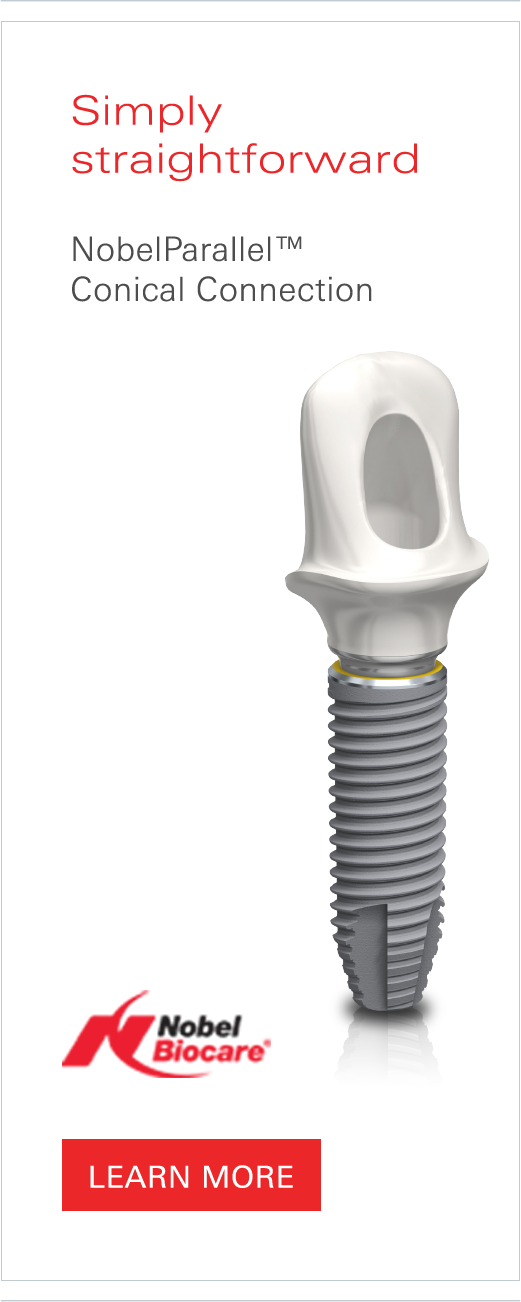
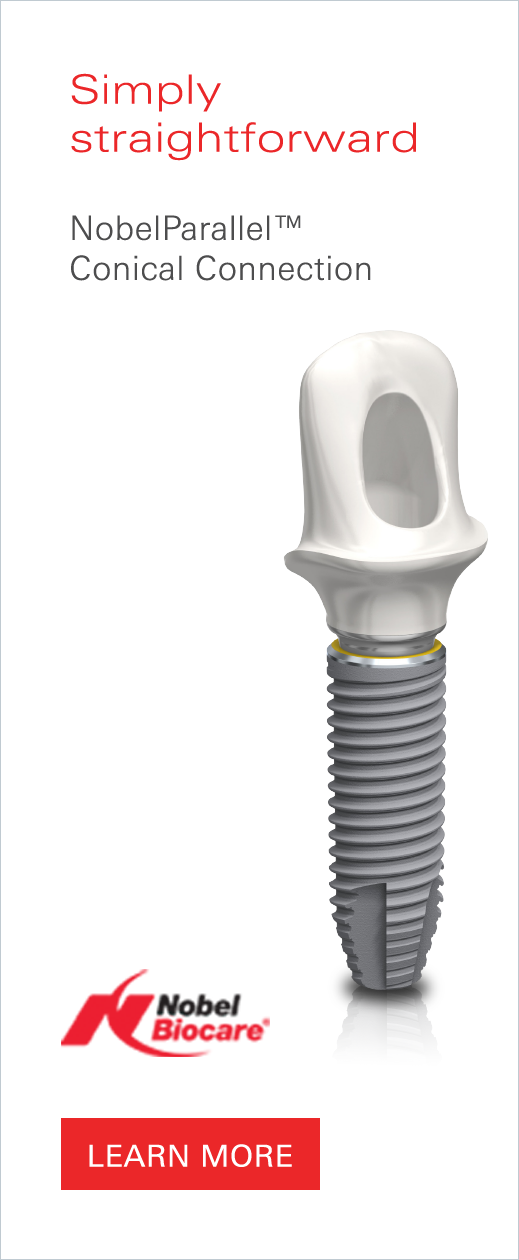
implmented filters and UI fixes

diff --git a/src/app/pages/sponsors/components/sponsor-category-content/sponsor-category-content-component.ts b/src/app/pages/sponsors/components/sponsor-category-content/sponsor-category-content-component.ts
@@ -1,10 +1,12 @@
-import { Component, OnInit, OnDestroy } from '@angular/core';
+import { Component, OnInit, OnDestroy, Input, OnChanges, SimpleChanges } from '@angular/core';
 import { Observable, Subscription, from, Subject } from 'rxjs';
 import { CMSResponse, CMSPageContent, CMSContentTypeModel, CMSContentParams } from 'src/app/cms/models';
-import { Store } from '@ngxs/store';
+import { Store, ofActionDispatched, Actions } from '@ngxs/store';
 import * as actions from '../../../../cms/actions'
 import { skip, takeLast, take, takeUntil } from 'rxjs/operators';
 import { ActivatedRoute, Router } from '@angular/router';
+import { NgxSpinnerService } from 'ngx-spinner';
+import { FetchLatestTopics, FetchTrendingTopics } from '../../../../cms/actions';
 
 @Component({
   selector: 'dsod-sponsor-category-content',
@@ -12,6 +14,8 @@ import { ActivatedRoute, Router } from '@angular/router';
   styleUrls: ['./sponsor-category-content-component.scss']
 })
 export class DSODSponsorCategoryContentComponent implements OnInit , OnDestroy {
+  @Input() categoryId:string;
+  isLoading:boolean;
   sponsorName:any
   sponsor: CMSContentTypeModel;
   featuredTopics$: Observable<CMSResponse<CMSPageContent[]>>;
@@ -22,7 +26,8 @@ export class DSODSponsorCategoryContentComponent implements OnInit , OnDestroy {
   };
   _unsubscribeAll: Subject<any> = new Subject();
   storeSub: Subscription;
-  constructor(private store:Store, private route:ActivatedRoute) {
+  constructor(private store: Store, private route: ActivatedRoute, private actions$: Actions,
+    private spinnerService: NgxSpinnerService,) {
   }
 
   ngOnInit(){
@@ -33,9 +38,17 @@ export class DSODSponsorCategoryContentComponent implements OnInit , OnDestroy {
     this.featuredTopics$ = this.store.select(state => state.cms.featuredTopics);
     this.latestTopics$ = this.store.select(state => state.cms.latestTopics);
     this.trendingTopics$ = this.store.select(state => state.cms.trendingTopics);
+    this.actions$.pipe(ofActionDispatched(actions.FetchFeaturedTopics, FetchLatestTopics, FetchTrendingTopics)).subscribe(data => {
+      this.spinnerService.show();
+      this.isLoading = true;
+    });
+    this.actions$.pipe(ofActionDispatched(actions.FetchFeaturedTopicsSuccess, actions.FetchLatestTopicsSuccess, actions.FetchTrendingTopicsSuccess)).subscribe(data => {
+      this.spinnerService.hide();
+      this.isLoading = false;
+    });
   }
 
-  getSponsorContent(){
+  getSponsorContent(categoryId?:string){
     this.storeSub = this.store.select(state => state.cms.sponsorsList)
       .pipe(takeUntil(this._unsubscribeAll)).subscribe(item => {
         if(item.length){
@@ -45,6 +58,7 @@ export class DSODSponsorCategoryContentComponent implements OnInit , OnDestroy {
               ...this.params,
               isFeatured: true,
               sponsorId: this.sponsor[0].id,
+              categoryId:this.categoryId?this.categoryId:null,
               limit: 6
             })
           );
@@ -53,6 +67,7 @@ export class DSODSponsorCategoryContentComponent implements OnInit , OnDestroy {
               ...this.params,
               isFeatured: false,
               sponsorId: this.sponsor[0].id,
+              categoryId: this.categoryId ? this.categoryId : null,
               limit: 6
             })
           );
@@ -61,6 +76,7 @@ export class DSODSponsorCategoryContentComponent implements OnInit , OnDestroy {
               ...this.params,
               limit: 4,
               sponsorId: this.sponsor[0].id,
+              categoryId: this.categoryId ? this.categoryId : null,
               contentTypeId: "29"
             })
           );
@@ -68,6 +84,8 @@ export class DSODSponsorCategoryContentComponent implements OnInit , OnDestroy {
      
       });
   }
+
+
   ngOnDestroy(){
     this.storeSub.unsubscribe();
     this._unsubscribeAll.next();

diff --git a/src/app/pages/sponsors/components/sponsor-categories-tabs/sponsor-categories-tab.component.ts b/src/app/pages/sponsors/components/sponsor-categories-tabs/sponsor-categories-tab.component.ts
@@ -3,7 +3,7 @@ import { TabDirective } from 'ngx-bootstrap';
 import { Store } from '@ngxs/store';
 import { ActivatedRoute } from '@angular/router';
 import { Observable, Subject, Subscription } from 'rxjs';
-import * as actions from '../../../../cms/actions'
+import * as actions from '../../../../cms/actions';
 import { takeUntil } from 'rxjs/operators';
 
 @Component({
@@ -12,41 +12,48 @@ import { takeUntil } from 'rxjs/operators';
   styleUrls: ['./sponsor-categories-tab.component.scss']
 })
 export class DSODSponsorCategoriesTabsCompnonent implements OnInit, OnDestroy {
-  sponsorName:any;
-  filterTabs$:Observable<any>;
+  sponsorName: any;
+  selectedCategoryId: string;
+  filterTabs$: Observable<any>;
   _unsubscribeAll: Subject<any> = new Subject();
-  extractedId:string;
+  extractedId: string;
   storeSub: Subscription;
-  constructor( private store:Store, private route:ActivatedRoute) {
+  constructor(private store: Store, private route: ActivatedRoute) {
     this.store.dispatch(new actions.FetchSponsorsList());
-    this.route.params.subscribe(param=>{
+    this.route.params.subscribe(param => {
       this.sponsorName = param.name;
-      this.fetchSponsorCategories()
-    })
+      this.fetchSponsorCategories();
+    });
   }
 
-  ngOnInit(){
-   
-    this.filterTabs$ = this.store.select(state => state.cms.sponsoredCategories)
+  ngOnInit() {
+    this.filterTabs$ = this.store.select(
+      state => state.cms.sponsoredCategories
+    );
   }
 
-  fetchSponsorCategories(){
-    this.storeSub= this.store.select(state => state.cms.sponsorsList).pipe(takeUntil(this._unsubscribeAll)).subscribe(items => {
-    if (items.length) {
-      const sponsor = items.filter(item => item.name == this.sponsorName);
-      this.extractedId = sponsor[0].id;
-      this.store.dispatch(new actions.FetchSponsoredCategories(sponsor[0].id))
-    }
-    })
+  fetchSponsorCategories() {
+    this.storeSub = this.store
+      .select(state => state.cms.sponsorsList)
+      .pipe(takeUntil(this._unsubscribeAll))
+      .subscribe(items => {
+        if (items.length) {
+          const sponsor = items.filter(item => item.name == this.sponsorName);
+          this.extractedId = sponsor[0].id;
+          this.store.dispatch(
+            new actions.FetchSponsoredCategories(sponsor[0].id)
+          );
+        }
+      });
   }
 
-  onChangeFilter(data:TabDirective){
+  onChangeFilter(data: string) {
+    this.selectedCategoryId = data;
   }
 
-  ngOnDestroy(){
+  ngOnDestroy() {
     this._unsubscribeAll.next();
     this._unsubscribeAll.complete();
     this.storeSub.unsubscribe();
   }
-
 }

diff --git a/src/app/pages/sponsors/container/sponsor/sponsor-container.component.ts b/src/app/pages/sponsors/container/sponsor/sponsor-container.component.ts
@@ -17,7 +17,7 @@ export class DSODSponsorContainerComponent implements OnInit{
       actionName: 'Learn More',
       actionLink: '/',
       contentType: DSODContentType.Image,
-      src: 'assets/images/sponsor-images/align-banner-1.jpg',
+      src: 'assets/images/sponsor-images/align-banner-1.png',
       url: '',
       logo: 'assets/images/sponsor-images/NBL-logo-white.png',
       sponsoredBy: 'Sponsored content from Noble Biocare, N.A.',
@@ -31,7 +31,7 @@ export class DSODSponsorContainerComponent implements OnInit{
       actionName: 'Learn More',
       actionLink: '/',
       contentType: DSODContentType.Image,
-      src: 'assets/images/sponsor-images/gsk-banner-1.jpg',
+      src: 'assets/images/sponsor-images/gsk-banner-1 .png',
       url: '',
       logo:'assets/images/gsk-icon-sm.png',
       sponsoredBy:'Sponsored content from GlaxoSmithKline',
@@ -45,7 +45,7 @@ export class DSODSponsorContainerComponent implements OnInit{
       actionName: 'Learn More',
       actionLink: '/',
       contentType: DSODContentType.Image,
-      src: 'assets/images/sponsor-images/noble-banner-1.jpg',
+      src: 'assets/images/sponsor-images/noble-banner-1.png',
       url: '',
       logo: 'assets/images/sponsor-images/ALN-logo-white.png',
       sponsoredBy:'Sponsored content from Align',

diff --git a/src/app/pages/sponsors/components/sponsor-category-content/sponsor-category-content-component.html b/src/app/pages/sponsors/components/sponsor-category-content/sponsor-category-content-component.html
@@ -2,10 +2,20 @@
 <div class="container">
   <div class="row">
     <div class="col-lg-8 col-md-12">
-      <dsod-latest [latestTopics]="latestTopics$ | async" [sponsorName]="sponsorName"></dsod-latest>
-    </div>
-    <div class="col-lg-4 col-md-12">
-      <dsod-trending [trendingTopics]="trendingTopics$ | async" [sponsorName]="sponsorName"></dsod-trending>
+      <p class="no-post" *ngIf="(featuredTopics$ | async)?.length<1 && !isLoading">0 Posts Found</p>
     </div>
   </div>
 </div>
+<div class="container">
+  <div class="row">
+    <div class="col-lg-8 col-md-12">
+      <dsod-latest [latestTopics]="latestTopics$ | async" [sponsorName]="sponsorName"></dsod-latest>
+      <p class="no-post" *ngIf="(latestTopics$ | async)?.length<1 && !isLoading">0 Posts Found</p>
+    </div>
+    <div class="col-lg-4 col-md-12">
+      <dsod-trending [trendingTopics]="trendingTopics$ | async" [sponsorName]="sponsorName"></dsod-trending>
+      <p class="no-post" *ngIf="(trendingTopics$ | async)?.length<1 && !isLoading">0 Posts Found</p>
+    </div>
+  </div>
+</div>
+<ngx-spinner bdColor="rgba(51, 51, 51, 0.8)" size="medium" color="#fff" type="ball-scale-multiple"></ngx-spinner>

diff --git a/src/app/pages/sponsors/components/sponsor-content/sponsor-content.component.scss b/src/app/pages/sponsors/components/sponsor-content/sponsor-content.component.scss
@@ -20,7 +20,7 @@
           border-width: 1px 0px 1px 1px;
           min-width: 100px;
           text-align: center;
-          color: $mine_grey;
+          color: #212529;
           font-size: 20px;
           &.active {
             background: $dropdown_grey;
@@ -36,39 +36,3 @@
   }
 }
 
-// /deep/ .dsod-tab-set {
-//   .tab-content {
-//     .dsod-tab {
-//       padding: 50px 100px 100px;
-//     }
-//   }
-// }
-// .tabs-wrapper {
-//   /deep/ .nav-tabs {
-//     justify-content: center;
-//     border-bottom: none;
-//     margin-bottom: 30px;
-
-//     .nav-item {
-//       .nav-link {
-//         border-radius: 0px;
-//         border: 1px solid #ccc;
-//         border-width: 1px 0px 1px 1px;
-//         min-width: 100px;
-//         text-align: center;
-//         color: $mine_grey;
-//         font-size: 20px;
-
-//         &.active {
-//           background: $dropdown_grey;
-//         }
-//       }
-
-//       &:last-child {
-//         .nav-link {
-//           border-right: 1px solid #ccc;
-//         }
-//       }
-//     }
-//   }
-// }

diff --git a/src/app/pages/sponsors/components/sponsor-categories-tabs/sponsor-categories-tab.component.html b/src/app/pages/sponsors/components/sponsor-categories-tabs/sponsor-categories-tab.component.html
@@ -1,7 +1,10 @@
 <div class="tabs-wrapper" [ngClass]="{'logo-aln': sponsorName=='ALN','logo-gsk': sponsorName=='GSK','logo-nbl': sponsorName=='NBL'}">
-<tabset *ngIf="extractedId">
-<tab *ngFor="let tab of (filterTabs$ | async) |sponsored_categories:extractedId" [heading]="tab.name" (select)="onChangeFilter($event)">
+  <tabset *ngIf="extractedId">
+    <tab (select)="onChangeFilter(null)">
+      <dsod-sponsor-category-content [categoryId]=selectedCategoryId *ngIf="selectedCategoryId==null"></dsod-sponsor-category-content>
+    </tab>
+    <tab *ngFor="let tab of (filterTabs$ | async) |sponsored_categories:extractedId" [heading]="tab.name" (select)="onChangeFilter(tab.id)">
+      <dsod-sponsor-category-content [categoryId]=selectedCategoryId *ngIf="selectedCategoryId==tab.id"></dsod-sponsor-category-content>
     </tab>
   </tabset>
-<dsod-sponsor-category-content></dsod-sponsor-category-content>
 </div>

diff --git a/src/app/layout/navbar/navbar.component.html b/src/app/layout/navbar/navbar.component.html
@@ -47,7 +47,7 @@
               <ul class="navbar-nav flex-row">
                 <!-- Menu Items  -->
                 <li class="nav-item sub-menu-parent hidden-medium" *ngFor="let nav of navigation" [ngClass]="{'menu-has-children': nav.children}">
-                  <a class="nav-link" routerLink={{nav.link}} routerLinkActive="active" [routerLinkActiveOptions]="{exact:true}">{{nav.title}}</a>
+                  <a class="nav-link" href="javascript:void(0)" routerLinkActive="active" [routerLinkActiveOptions]="{exact:true}" (click)="navigateTo(nav.link)">{{nav.title}}</a>
                   <!-- Sub Menu -->
                   <span class="touch-toggler" *ngIf="nav.children">
                     <i class="fa fa-chevron-down" aria-hidden="true"></i>

diff --git a/src/app/pages/sponsors/components/sponsor-posts/sponsor-posts.component.html b/src/app/pages/sponsors/components/sponsor-posts/sponsor-posts.component.html
@@ -21,14 +21,6 @@
       <div class="col-xl-6 thumbnail">
         <div class="img-container">
           <dsod-feartured-media [featuredMedia]="post.featuredMedia"></dsod-feartured-media>
-          <!-- <img *ngIf="post.featuredMedia && post.featuredMedia?.type !== '6'"
-            class="img-fluid"
-            src="{{post.featuredMedia.code.originalUrl}}"
-            alt="" />
-          <div *ngIf="post.featuredMedia && post.featuredMedia?.type === '6'"
-            class="img-fluid"
-            [innerHTML]="getIFrameCode(post.featuredMedia.code.iFrameCode)">
-          </div> -->
         </div>
       </div>
     </div>

diff --git a/src/app/pages/sponsors/sponsors-routing.module.ts b/src/app/pages/sponsors/sponsors-routing.module.ts
@@ -7,18 +7,8 @@ import { DSODSponsorContainerComponent } from './container/sponsor/sponsor-conta
 
 const routes: Routes = [
   {
-    path: '',
-    component: DSODSponsorsPageComponent,
-    children: [
-      {
-        path: '',
-        component: DSODSponsorsContainerComponent
-      },
-      {
-        path: ':name',
-        component: DSODSponsorContainerComponent
-      }
-    ]
+    path: ':name',
+    component: DSODSponsorContainerComponent,
   }
 ];
 

diff --git a/src/app/shared/components/topic/topic.component.scss b/src/app/shared/components/topic/topic.component.scss
@@ -23,15 +23,21 @@
         line-height: 20px;
 
         &.nbl {
-          color: #ed1b2f
+          color: #ed1b2f;
+          font-weight: bold;
+
         }
 
         &.gsk {
-          color: #f15d22
+          color: #f15d22;
+          font-weight: bold;
+
         }
 
         &.aln {
-          color: #3d3935
+          color: #212529;
+          font-weight: bold;
+
         }
       }
     }

diff --git a/src/app/shared/components/latest/latest.component.scss b/src/app/shared/components/latest/latest.component.scss
@@ -18,14 +18,17 @@
         color: $color-primary;
         font-size: 22px;
        &.aln {
-          color: #3d3935;
+          color: #212529;
+          font-weight: bold;
         }
 
         &.nbl {
+          font-weight: bold;
           color: #ed1b2f;
         }
 
         &.gsk {
+          font-weight: bold;
           color: #f15d22;
         }
       }

diff --git a/src/app/shared/components/trending-item/trending-item.component.scss b/src/app/shared/components/trending-item/trending-item.component.scss
@@ -23,17 +23,21 @@
     h4 {
       color: $color-primary;
       font-size: 18px;
+     
 
       &.nbl {
-        color: #ed1b2f
+        color: #ed1b2f;
+         font-weight: bold;
       }
 
       &.gsk {
         color: #f15d22;
+         font-weight: bold;
       }
 
       &.aln {
         color: #3d3935;
+         font-weight: bold;
       }
     }
   }
